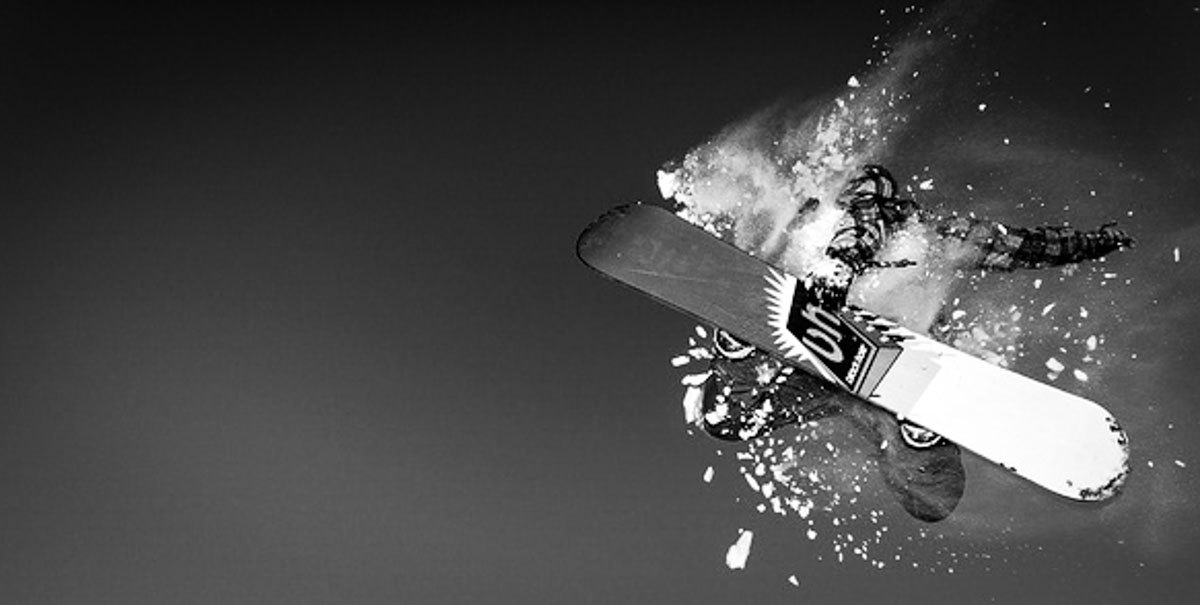
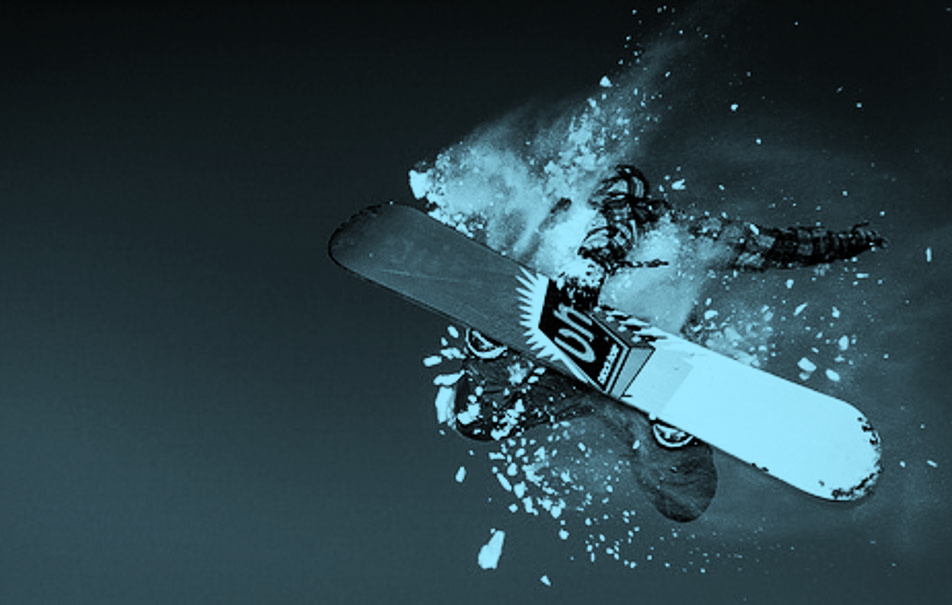
changed billboard image, styled page more

diff --git a/index.html b/index.html
@@ -36,22 +36,25 @@
      <h1 class="headline"> The Extreme Experience </h1>
  </div>
 
-	<div class="grid">
+	<div class="grid blue">
 		<div class="unit unit-xs-1 unit-s-1 unit-m-1 unit-l-1 island">
 			<h2 class="need">Why Traverse</h2>
 				<p class="about">Traverse is the must-have snowboarding product. The name Traverse comes from a snowboarding and skiing term used With Traverse you can track your calories, measure your air time when you hit those wicked jumps, and also keep track of the weather so you always have the best snowboarding experience.
 				</p>
-
 		</div>	
-	</div>
+	</div>	
 
-	<hr>
+
+
+<div class="unit unit-xs-1 unit-s-1 unit-m-1 unit-l-1 island">
+	<h2> A Few Features of Traverse: </h2>
+</div>
 
 <div class="grid pad-top">
 	<div class="island">
 		<img class="icon" src="images/calories.jpg" alt="Calories Icon">
 	</div>
-	<div class="unit unit-xs-1 unit-s-1-3 unit-m-1-3 unit-l-1-3">
+	<div class="unit unit-xs-1 unit-s-1-3 unit-m-1-2 unit-l-1-3">
 			<h2 class="icon-names"> Calorie Counter </h2>
 				<p class="milli island"> Count the calories you burn when hitting the slopes, this way you can have fun and stay healthy at the same time! You can always put in an amount of calories you wish to burn that day and Traverse will tell you what you need to do to reach that goal, whether it be a long term goal or just a daily goal, traverse has got you covered.
 				</p>
@@ -60,7 +63,7 @@
 	<div class="island">
 		<img class="icon" src="images/weather.jpg" alt="Weather Icon">
 	</div>
-		<div class="unit unit-xs-1 unit-s-1-3 unit-m-1-3 unit-1-3">
+		<div class="unit unit-xs-1 unit-s-1-3 unit-m-1-2 unit-1-3">
 			<h2 class="icon-names"> Weather </h2>
 				<p class="milli island"> When your hitting those big jumps, you can measure your air time so that you can improve each time and challenge yourself to do better, and you can show off to your friends! It tracks how fast you were travelling when you hit the jump, and how long you were in the air before touching the ground. You can also punch in how much air you want to try and get and Traverse will calculate it for you, and tell you if it is possible.
 				 </p>
@@ -69,11 +72,15 @@
 	<div class="island">
 		<img class="icon" src="images/air.jpg" alt="Air Time Icon">
 	</div>
-	<div class="unit unit-xs-1 unit-s-1-3 unit-m-1-3 unit-1-3">
+	<div class="unit unit-xs-1 unit-s-1-3 unit-m-1-2 unit-1-3">
 		<h2 class="icon-names"> Air Time </h2>
 			<p class="milli island"> It sucks when you get to the hill and all the runs are closed cause the weather is horrible. With this product you can get the weather for different ski hills so you know exactly what is happening at your hill. It will also tell you if the hill is open and how many runs are open. </p>
 	</div>
 </div>
+
+<div class="bottom">
+     <p class="milli para-bottom"> Traverese is not just for the experienced. Traverse is also for the people who want to get off that bunny hill and push themselves to the limit. </p>
+ </div>
 
 
   <footer class="footer island ">

diff --git a/css/main.css b/css/main.css
@@ -66,7 +66,7 @@ body {
 .nav a {
   display: block;
   text-decoration: none;
-  color: #33ccff;
+  color: white;
   text-align: left;
 }
 
@@ -76,8 +76,8 @@ header {
 }
 
 .best{
-    background-image:url("../images/snowboard1-2.jpg");
-    background-size: 100%;
+    background-image:url("../images/snowboardgreen1.jpg");
+    background-size: 150%;
     background-repeat:no-repeat;
     background-position:top center;
     overflow: hidden;
@@ -86,12 +86,16 @@ header {
 }
 
 .headline { 
-    margin:3rem 0;
+    margin:7rem 0;
     font-size:2rem;
-    text-align:left;
+    text-align:center;
     background-color:rgba(0 ,0 ,0, .5);
     color: white;
   }
+
+.blue {
+  background-color: #33ccff;
+}
 
 .about {
   text-align: center;
@@ -100,20 +104,35 @@ header {
 
 .icon-names{
   text-align: center;
+  margin: 0;
+  padding: 0:;
 }
 
 .need {
   text-align: center;
 }
 
-hr {
-    margin: 0rem 8%;
-}
-
 .icon {
   display: block;
 }
 
+.bottom {
+  background-image:url("../images/snowboard1-2.jpg");
+  background-size: 150%;
+  background-repeat:no-repeat;
+  background-position:top center;
+  overflow: hidden;
+  margin:0;
+  width: 100%;
+}
+
+.para-bottom { 
+    margin:10rem 0 0;
+    font-size:1.5rem;
+    text-align:center;
+    background-color:rgba(0 ,0 ,0, .5);
+    color: white;
+  }
 
 
 

diff --git a/css/grids.css b/css/grids.css
@@ -108,8 +108,8 @@ html {
 
 
 .nav li {
-  display:block;
-  text-align: center;
+  display:inline-block;
+  text-align: left;
 }
 
 @media only screen and (min-width: 25em) {
